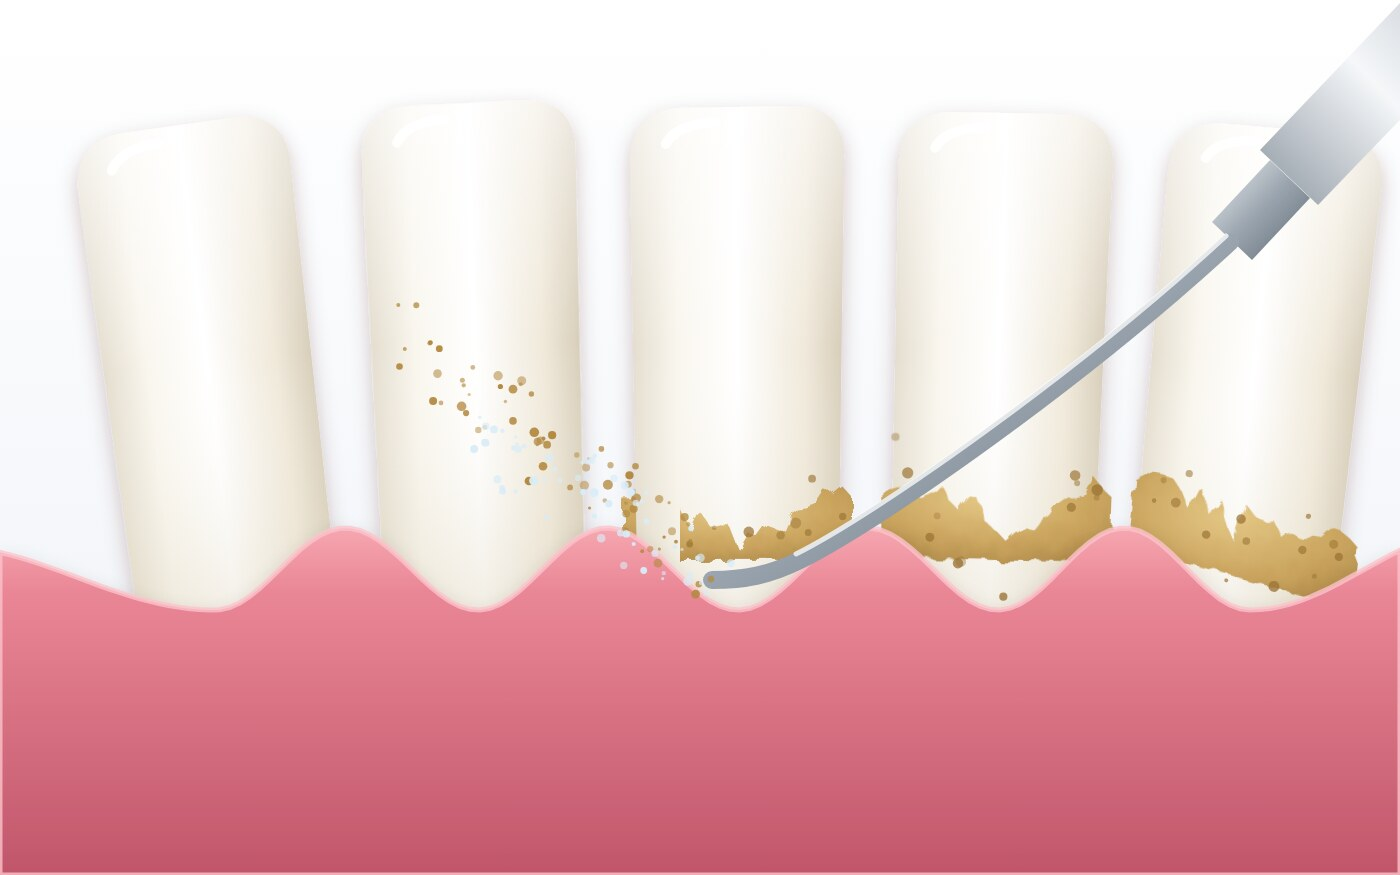
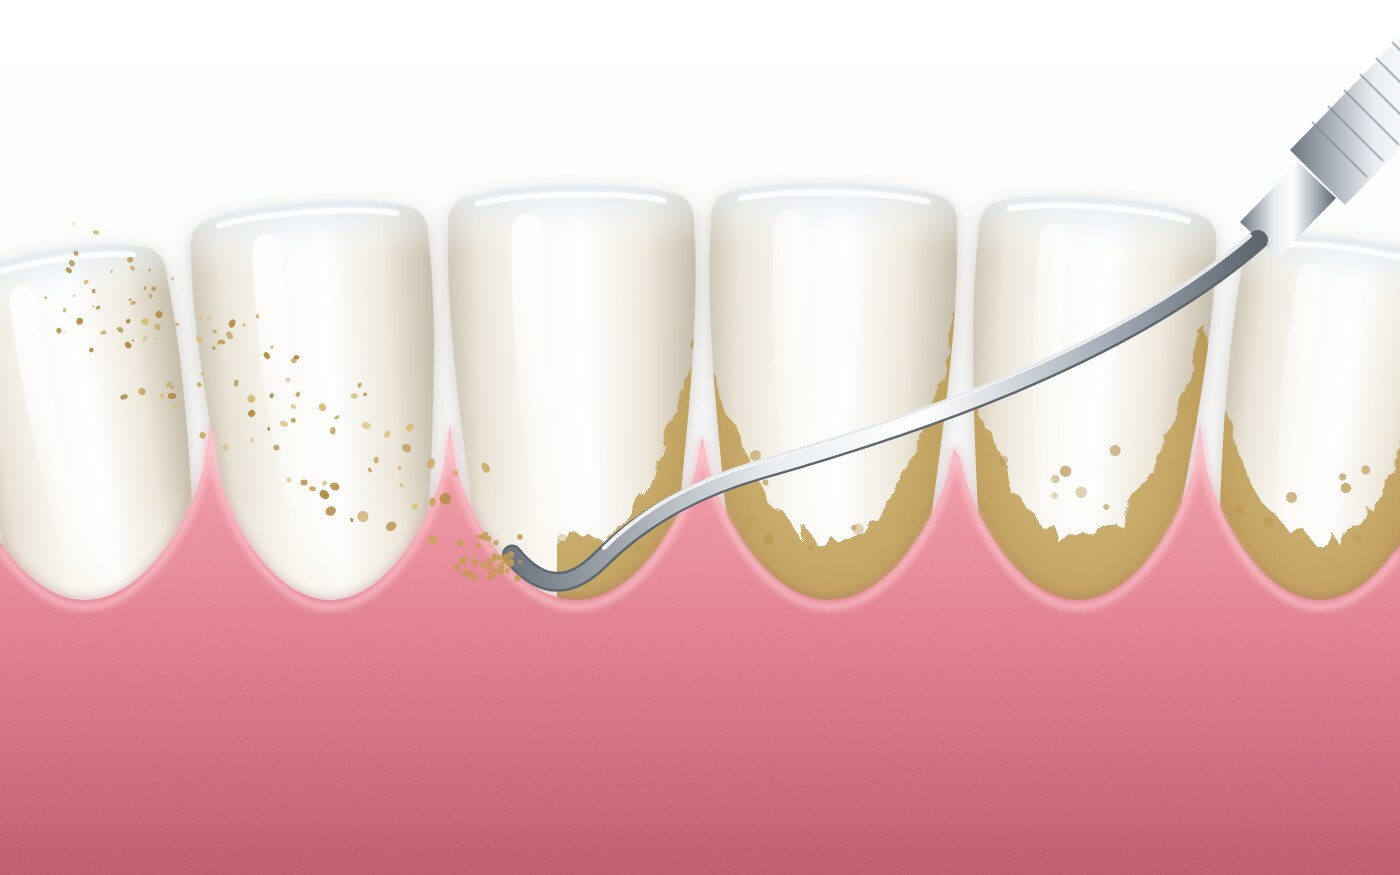
불소 바니시 주의사항, 치료 전 예방치료 권유, 스케일링 그림 다시 그림
- 주의사항에 '불소도포 후' 섹션 신설: 본원 사용 제품(5% 불화나트륨 바니시) 기준
  4~6시간 양치·딱딱한 음식·술 금지, 당일 다른 불소 금지 등
- 사랑니 발치·충치 치료 전 초진 때 스케일링과 불소도포를 먼저 권한다는 안내 (진료 안내, 주의사항)
- 스케일링 그림을 실제 하악 전치부 모양과 치석 질감으로 다시 그림

Claude-Session: https://claude.ai/code/session_01R7kTzuw7UYxby8XWCzNtGf

diff --git a/care.html b/care.html
@@ -62,7 +62,8 @@
       <a class="chip" href="#root-canal">신경치료</a>
       <a class="chip" href="#prosth">크라운 · 인레이</a>
       <a class="chip" href="#anesthesia">마취</a>
-      <a class="chip" href="#scaling">스케일링 · 불소 · 충전</a>
+      <a class="chip" href="#scaling">스케일링 · 충전</a>
+      <a class="chip" href="#fluoride">불소도포</a>
       <a class="chip" href="#botox">보톡스</a>
       <a class="chip" href="#splint">교합안정장치</a>
       <a class="chip" href="#before">치료 전</a>
@@ -125,7 +126,7 @@
   </section>
 
   <section class="block" id="prosth" aria-labelledby="prosth-title">
-    <p class="eb">03 · Crown & inlay</p>
+    <p class="eb">03 · Crown &amp; inlay</p>
     <h2 class="block-title" id="prosth-title">크라운 · 인레이 장착 후</h2>
     <div class="tags"><span class="tag">장착 후 1시간 금식</span><span class="tag">당일 끈적·딱딱한 음식 피하기</span></div>
     <p class="sub">이렇게 하세요</p>
@@ -155,22 +156,41 @@
   </section>
 
   <section class="block" id="scaling" aria-labelledby="scaling-title">
-    <p class="eb">05 · Scaling, fluoride &amp; filling</p>
-    <h2 class="block-title" id="scaling-title">스케일링 · 불소도포 · 충전 후</h2>
-    <div class="tags"><span class="tag">불소도포 후 30분 금식</span><span class="tag">레진 충전 후 1시간 금식</span></div>
+    <p class="eb">05 · Scaling &amp; filling</p>
+    <h2 class="block-title" id="scaling-title">스케일링 · 충전 후</h2>
+    <div class="tags"><span class="tag">레진 충전 후 1시간 금식</span></div>
     <p class="sub">이렇게 하세요</p>
     <ul class="checks">
       <li class="do">시리고 잇몸에서 피가 조금 나는 것은 며칠 안에 가라앉습니다</li>
-      <li class="do">불소를 바른 뒤 30분은 먹거나 마시지 마세요. 침은 뱉지 말고 삼켜도 됩니다</li>
-      <li class="do">불소를 바른 날은 저녁 양치를 부드럽게 하고, 평소 칫솔질은 다음 날부터 하세요</li>
       <li class="do">레진으로 메운 날은 1시간 뒤에 식사하세요</li>
       <li class="do">씹을 때 메운 자리가 먼저 닿으면 다시 오세요. 몇 분이면 맞춥니다</li>
-      <li class="do">스케일링과 충전만 받은 날은 칫솔질을 당일부터 평소대로 하세요</li>
+      <li class="do">칫솔질은 당일부터 평소대로 하세요. 불소도포를 함께 받았다면 아래 불소도포 안내를 따르세요</li>
+    </ul>
+  </section>
+
+  <section class="block" id="fluoride" aria-labelledby="fluoride-title">
+    <p class="eb">06 · Fluoride varnish</p>
+    <h2 class="block-title" id="fluoride-title">불소도포 후</h2>
+    <p class="text">본원은 5% 불화나트륨 불소 바니시(Vericom V-varnish)를 씁니다. 치아에 얇게 발라 몇 시간 동안 머물면서 불소가 스며들게 하는 방식이라, 바른 뒤 4~6시간이 중요합니다.</p>
+    <div class="tags"><span class="tag">4~6시간 양치 금지</span><span class="tag">4~6시간 딱딱한 음식·술 금지</span><span class="tag">당일 다른 불소 금지</span></div>
+    <p class="sub">이렇게 하세요</p>
+    <ul class="checks">
+      <li class="do">바른 직후 30분 정도는 되도록 먹거나 마시지 마세요. 바니시가 굳는 시간입니다</li>
+      <li class="do">그 뒤 4~6시간은 죽, 두부, 계란찜처럼 부드럽고 미지근한 음식을 드세요. 물은 마셔도 됩니다</li>
+      <li class="do">양치와 치실은 4~6시간 뒤부터, 되도록 다음 날 아침부터 하세요</li>
+      <li class="do">치아가 미끈하거나 살짝 끈적하게 느껴지는 것은 바니시가 남아 있어서입니다. 다음 날 양치하면 없어집니다</li>
+    </ul>
+    <p class="sub">하지 마세요</p>
+    <ul class="checks">
+      <li class="dont">4~6시간 안에 딱딱하거나, 끈적하거나, 뜨거운 음식 먹기</li>
+      <li class="dont">4~6시간 안에 술이나 알코올이 든 가글 쓰기</li>
+      <li class="dont">같은 날 다른 불소 치료 받기, 며칠 동안 불소 가글이나 불소 보충제 쓰기</li>
+      <li class="dont">바니시를 손톱이나 혀로 일부러 떼어 내기</li>
     </ul>
   </section>
 
   <section class="block" id="botox" aria-labelledby="botox-title">
-    <p class="eb">06 · Botox</p>
+    <p class="eb">07 · Botox</p>
     <h2 class="block-title" id="botox-title">보톡스 시술 후</h2>
     <div class="tags"><span class="tag">효과 2~3일 뒤부터</span><span class="tag">3~6개월 지속</span><span class="tag">다음 시술은 3개월 뒤</span></div>
     <p class="sub">이렇게 하세요</p>
@@ -189,7 +209,7 @@
   </section>
 
   <section class="block" id="splint" aria-labelledby="splint-title">
-    <p class="eb">07 · Splint & mouthguard</p>
+    <p class="eb">08 · Splint &amp; mouthguard</p>
     <h2 class="block-title" id="splint-title">교합안정장치 · 마우스가드</h2>
     <p class="text">교합안정장치는 잠잘 때 낍니다. 처음 며칠은 어색하고 침이 많이 나올 수 있지만, 대부분 일주일 안에 익숙해집니다.</p>
     <p class="sub">이렇게 하세요</p>
@@ -210,12 +230,13 @@
   </section>
 
   <section class="block" id="before" aria-labelledby="before-title">
-    <p class="eb">08 · Before visit</p>
+    <p class="eb">09 · Before visit</p>
     <h2 class="block-title" id="before-title">치료 받으러 오기 전</h2>
     <p class="sub">이렇게 하세요</p>
     <ul class="checks">
       <li class="do">밥 먹고, 양치하고 오세요. 빈속에 마취하면 어지러울 수 있습니다</li>
       <li class="do">먹는 약, 특히 피를 묽게 하는 약은 꼭 말하세요</li>
+      <li class="do">사랑니 발치나 충치 치료를 앞두고 있다면, 초진 때 스케일링과 불소도포를 먼저 받으세요. 입안 세균을 줄여 두면 치료 뒤 상처가 더 잘 아뭅니다</li>
       <li class="do">발치·신경치료 날은 훈련과 체력단련을 미리 조정하세요</li>
       <li class="do">심하게 아프면 전날 밤 진통제를 먹어도 됩니다. 먹은 약 이름을 말하세요</li>
     </ul>

diff --git a/clinic.html b/clinic.html
@@ -78,8 +78,8 @@
     </dl>
     <p class="stats__note">2026년 9월 30일까지 본원에서 시행한 건수입니다.</p>
     <figure class="feature__photo">
-      <img src="photos/scaling-illust.jpg" alt="초음파 스케일러로 잇몸선의 치석을 제거하는 그림. 스케일러가 지나간 치아는 깨끗해진다" width="1400" height="875" loading="lazy">
-      <figcaption>스케일링. 잇몸선 위아래에 붙은 치석과 세균막을 초음파 스케일러로 떼어 냅니다.</figcaption>
+      <img src="photos/scaling-illust.jpg" alt="스케일러로 하악 전치부 잇몸선의 치석을 제거하는 그림. 스케일러가 지나간 치아는 깨끗해진다" width="1400" height="875" loading="lazy">
+      <figcaption>스케일링. 잇몸선 위아래에 붙은 치석과 세균막을 스케일러로 떼어 냅니다.</figcaption>
     </figure>
     <div class="duo">
       <div class="duo__card">
@@ -91,14 +91,16 @@
         <p>불소는 치아 겉면의 법랑질을 단단하게 하고, 초기 충치로 약해진 부분을 다시 굳게 만듭니다. 치아에 불소를 직접 발라 주면 산에 덜 녹아 충치가 덜 생깁니다.</p>
       </div>
     </div>
+    <div class="softbox softbox--accent"><b>발치·충치 치료 전에 먼저 받으세요</b><p>본원은 사랑니 발치나 충치 치료 같은 치료를 앞둔 분께 <b>초진 때 스케일링과 불소도포를 먼저</b> 권합니다. 치석과 세균을 미리 줄여 두면 치료 부위의 감염 위험이 줄고, 치료 뒤 상처가 아물고 회복하는 과정이 한결 순조롭습니다.</p></div>
     <div class="softbox"><b>왜 함께 받아야 하나요</b><p>스케일링으로 치석과 세균막을 걷어 낸 직후가 불소를 바르기 가장 좋은 때입니다. 깨끗해진 치아 표면에 불소가 바로 닿기 때문입니다. 한 번 방문으로 잇몸병과 충치를 함께 예방할 수 있고, 따로 올 필요도 없습니다.</p></div>
     <ul class="feature__list">
       <li>스케일링 약 20~30분, 불소도포는 이어서 몇 분이면 끝납니다</li>
       <li>6개월마다 받기를 권합니다. 잇몸에서 피가 나면 더 일찍 오세요</li>
       <li>이런 분께 특히 권합니다: 잇몸에서 피가 나는 분, 치석이 눈에 보이는 분, 충치가 자주 생기는 분, 단 음료와 담배를 자주 하는 분</li>
+      <li>본원은 5% 불화나트륨 불소 바니시를 씁니다. 바른 뒤 4~6시간은 양치, 딱딱한 음식, 술을 피하세요</li>
       <li>예약할 때 "스케일링이랑 불소도포 같이 받고 싶다"고 말하세요</li>
     </ul>
-    <p class="feature__more"><a class="link" href="care.html#scaling">스케일링 · 불소도포 후 주의사항 보기</a></p>
+    <p class="feature__more"><a class="link" href="care.html#fluoride">불소도포 후 주의사항 보기</a></p>
   </section>
 
   <section class="block feature" id="caries" aria-labelledby="caries-title">
@@ -107,6 +109,7 @@
     <p class="feature__statement">우식의 깊이와 범위에 따라 수복에서 근관치료까지 단계적으로 진행합니다.</p>
     <p class="feature__more"><a class="link" href="cases.html#trauma">직접 치료한 외상 · 충치 증례 보기</a></p>
     <ul class="feature__list">
+      <li>충치 치료 전 초진 때 스케일링·불소도포를 먼저 권합니다</li>
       <li>최소 삭제 원칙에 따른 직접 레진 수복</li>
       <li>치수까지 진행된 우식은 근관치료 후 수복</li>
       <li>파절·외상 치아의 당일 응급 처치</li>
@@ -125,6 +128,7 @@
       <li>발치 후 2~3일 훈련·체력단련 조정 소견서 발급</li>
       <li>익일 소독, 1주 후 발사</li>
       <li>전신마취가 필요한 경우 소견서를 써 드리고 국군병원 내원 안내</li>
+      <li>발치 전 초진 때 스케일링·불소도포를 먼저 권합니다. 치료 뒤 회복이 순조롭습니다</li>
     </ul>
   </section>
   <section class="block feature" id="prosth" aria-labelledby="prosth-title">

diff --git a/style.css b/style.css
@@ -414,3 +414,6 @@ a:hover { color: var(--accent-deep); }
 .promo__eb { flex: none; padding: 4px 10px; border-radius: 6px; background: var(--accent-soft); color: var(--accent); font-size: 12px; font-weight: 700; }
 .promo b { display: block; font-size: 15px; font-weight: 700; }
 .promo b + span { display: block; margin-top: 2px; font-size: 13px; color: var(--muted); }
+.softbox--accent { background: var(--accent-soft); }
+.softbox--accent b { color: var(--accent); }
+.softbox p b { display: inline; color: var(--ink); }
